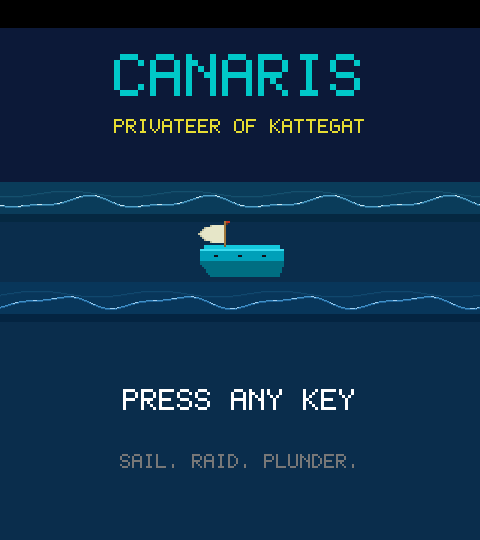
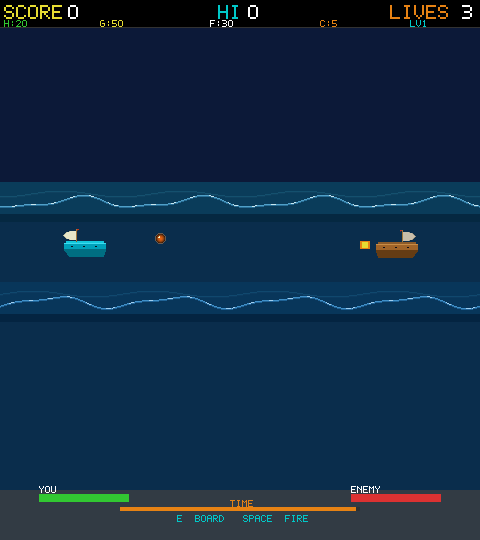
canaris: combat screenshot with mid-flight cannonball
blip: BLIP_SCREENSHOT_FRAME env var controls capture frame (default 25);
screenshot_mode field made pub so game code can branch on it.

canaris: autopilot for screenshot — when BLIP_SCREENSHOT_OUT is set,
frame 1 skips title and enters combat directly; frame 6 fires one
deterministic cannonball (fixed arc, no random jitter); blip captures
at frame 25 when the ball is midway between the two ships.

diff --git a/crates/canaris/src/main.rs b/crates/canaris/src/main.rs
@@ -1557,8 +1557,41 @@ async fn main() {
     play_music(&sfx.sea_music);
     play_ambient(&sfx.ocean_ambience);
 
+    let mut shot_frame: u32 = 0;
+
     loop {
         let dt = blip.delta_time;
+
+        // ── Screenshot autopilot ──────────────────────────────────────────────
+        // When BLIP_SCREENSHOT_OUT is set: skip title, enter combat, fire one
+        // cannonball, then let blip capture at frame 25.
+        if blip.screenshot_mode {
+            shot_frame += 1;
+            match shot_frame {
+                1 => {
+                    // Skip title → sea → combat immediately
+                    g.start_game();
+                    // Enemy 0 is already active from start_game/spawn_enemies;
+                    // set reload very high so it never fires during capture.
+                    g.enemies[0].reload_t = 999.0;
+                    g.enter_combat(0);
+                }
+                6 => {
+                    // Fire one cannonball with a fixed (non-random) arc
+                    g.cannonballs[0] = Cannonball {
+                        active: true,
+                        x:  COMBAT_PLAYER_X + PLAYER_W,
+                        y:  g.player.y + PLAYER_H * 0.55,
+                        vx: CANNON_SPEED,
+                        vy: -CANNON_ARC_VY,
+                        player: true,
+                    };
+                    g.player.reload_t = PLAYER_RELOAD;
+                    g.player.cannons -= 1;
+                }
+                _ => {}
+            }
+        }
 
         match g.state {
             State::Title    => update_title(&mut g, dt),

diff --git a/crates/blip/src/ctx.rs b/crates/blip/src/ctx.rs
@@ -61,9 +61,10 @@ pub struct Blip {
     // ---- interlaced field ----
     interlace_field: u8, // 0 or 1, flips every frame
     // ---- screenshot capture ----
-    screenshot_mode:  bool,
-    screenshot_frame: u32,
-    screenshot_path:  Option<String>,
+    pub screenshot_mode:   bool,
+    screenshot_frame:      u32,
+    screenshot_frame_target: u32,
+    screenshot_path:       Option<String>,
 }
 
 impl Blip {
@@ -83,13 +84,16 @@ impl Blip {
         let chroma_cd =  2.0 + rng.next() *  4.0;
 
         #[cfg(not(target_arch = "wasm32"))]
-        let (screenshot_mode, screenshot_path) = {
-            let path = std::env::var("BLIP_SCREENSHOT_OUT").ok();
-            let mode = path.is_some();
-            (mode, path)
+        let (screenshot_mode, screenshot_path, screenshot_frame_target) = {
+            let path   = std::env::var("BLIP_SCREENSHOT_OUT").ok();
+            let mode   = path.is_some();
+            let target = std::env::var("BLIP_SCREENSHOT_FRAME")
+                .ok().and_then(|s| s.parse().ok()).unwrap_or(25u32);
+            (mode, path, target)
         };
         #[cfg(target_arch = "wasm32")]
-        let (screenshot_mode, screenshot_path): (bool, Option<String>) = (false, None);
+        let (screenshot_mode, screenshot_path, screenshot_frame_target): (bool, Option<String>, u32) =
+            (false, None, 25);
 
         let b = Self {
             width, height, delta_time: 1.0 / 60.0,
@@ -100,6 +104,7 @@ impl Blip {
             interlace_field: 0,
             screenshot_mode,
             screenshot_frame: 0,
+            screenshot_frame_target,
             screenshot_path,
         };
         b.apply_camera();
@@ -151,7 +156,7 @@ impl Blip {
         #[cfg(not(target_arch = "wasm32"))]
         if self.screenshot_mode {
             self.screenshot_frame += 1;
-            if self.screenshot_frame >= 2 {
+            if self.screenshot_frame >= self.screenshot_frame_target {
                 if let Some(ref path) = self.screenshot_path {
                     let img = get_screen_data();
                     img.export_png(path);